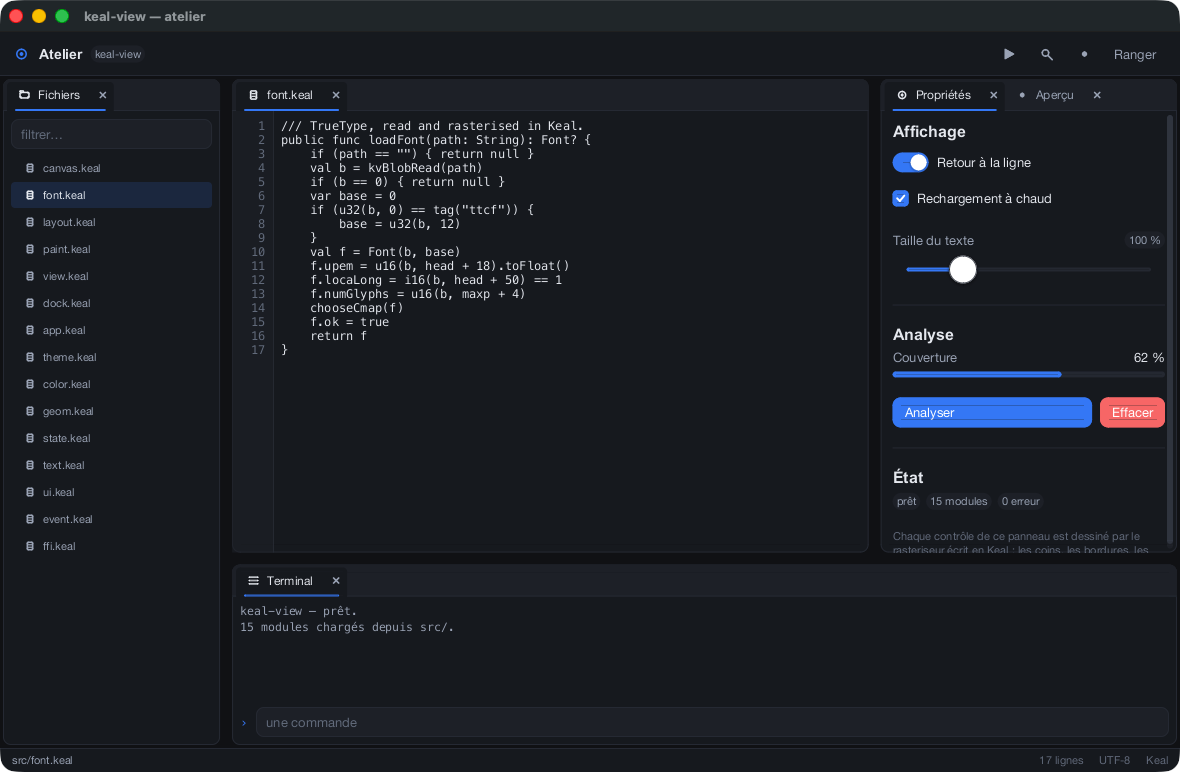
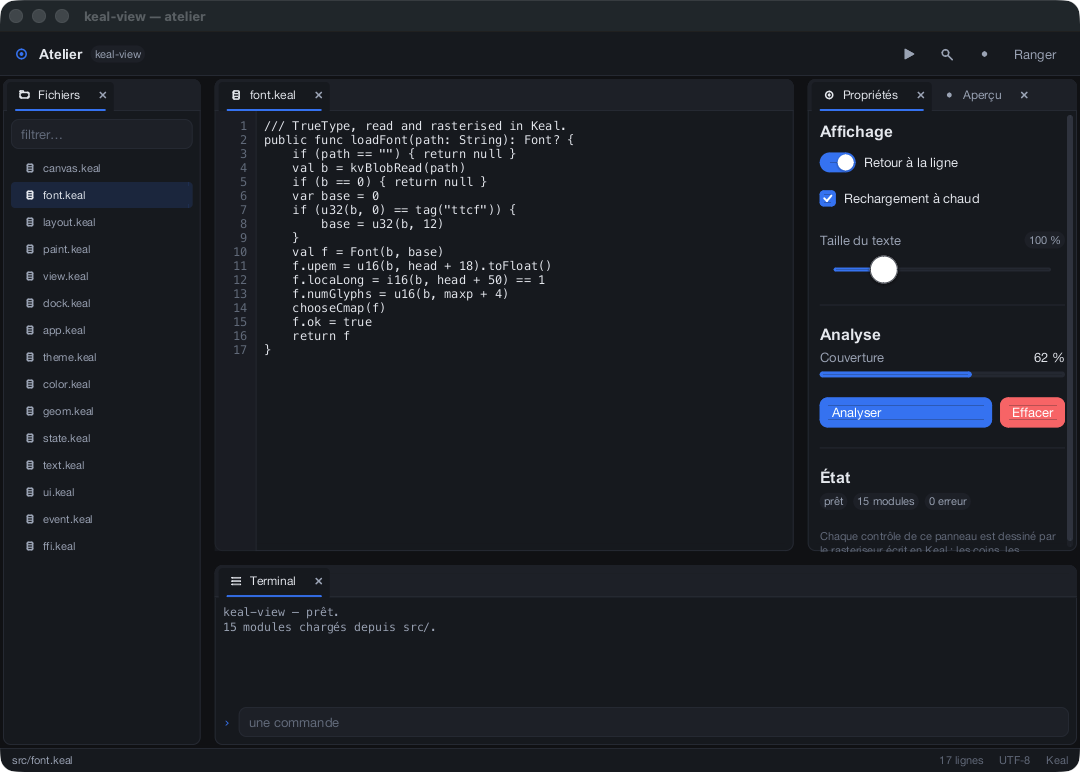
What Windows found: three defects above the backend, one in it
The first report from a machine that is not this one. It arrived in the right
order — the 131 headless assertions and the offscreen frame first, both good,
which said before anything else that the framework was sound on Windows and
any window defect was in `kv_win32.c`. Then the window turned out to be sound
too: image the right way up, colours right, resize clean, hover, wheel,
I-beam, double click, Tab and Shift-Tab, `Bonjour é€` typed correctly, and a
panel dragged between docks with its drop zone showing. Four things were
wrong, and three of them were mine on every platform.

**Ctrl/Cmd + A, C, X and V did nothing, anywhere.** `keyDown` tested
`e.text`, and `nextEvent` only filled `text` for a text event — a key press
always carried an empty string. Ctrl+C does not even produce one: Windows
sends `WM_CHAR` 0x03 and Cocoa suppresses the text event under Command, both
correctly. So a key press now carries the letter the key would type with
nothing held down, filled by all three backends. Verified end to end,
clipboard included.

**No selection was ever painted.** Extending needs somewhere to extend
*from*, and a field reached by Tab has never been clicked, so it had no
anchor — `anchorOf` answered the caret, which is where the caret was going,
so the selection was empty however far it ran. The anchor is now pinned where
the caret was on the first extend. Reproduced here as a failing test before
being fixed, and the test itself found the neighbouring hazard: two trees of
[…]

diff --git a/runtime/kv_win32.c b/runtime/kv_win32.c
@@ -35,6 +35,7 @@ static int    alive = 0;
 static double scale = 1.0;
 static int64_t pxw = 0, pxh = 0;
 static LARGE_INTEGER freq, start;
+static int      want_dark = 0;
 static HCURSOR cursors[5];
 static int     cursor_now = 0;
 
@@ -185,12 +186,20 @@ static LRESULT CALLBACK proc(HWND h, UINT msg, WPARAM wp, LPARAM lp) {
             push(e);
             return 0;
         }
-        case WM_KEYDOWN: case WM_SYSKEYDOWN:
+        case WM_KEYDOWN: case WM_SYSKEYDOWN: {
             e = blank(KV_EV_KEYDOWN);
             e.key = named_key(wp);
             e.mods = mods_now();
+            /* The letter the key would type with nothing held down, so that a
+             * shortcut can be told from another one. Ctrl+C sends WM_CHAR 0x03,
+             * which is dropped as a control character and rightly so, and the
+             * key press would otherwise carry nothing at all. */
+            UINT ch = MapVirtualKeyW((UINT)wp, 2 /* MAPVK_VK_TO_CHAR */) & 0x7FFF;
+            if (ch >= 'A' && ch <= 'Z') ch += 32;
+            if (ch >= 32 && ch < 127) { e.text[0] = (char)ch; e.text[1] = 0; }
             push(e);
             return 0;
+        }
         case WM_KEYUP: case WM_SYSKEYUP:
             e = blank(KV_EV_KEYUP);
             e.key = named_key(wp);
@@ -266,6 +275,10 @@ int64_t kvp_open(const char *title, int64_t w, int64_t h) {
                           want.right - want.left, want.bottom - want.top,
                           NULL, NULL, wc.hInstance, NULL);
     if (!win) return 0;
+    /* Before the window is shown: Windows 10 does not repaint a caption that
+     * is already on screen, so this is the only moment a dark one takes hold
+     * without a resize to shake it loose. */
+    kvp_set_dark(want_dark);
     ShowWindow(win, SW_SHOW);
     UpdateWindow(win);
     SetForegroundWindow(win);
@@ -342,20 +355,44 @@ void kvp_set_cursor(int64_t shape) {
     SetCursor(cursors[cursor_now]);
 }
 
+/* Remember what the application wants before there is a window to want it of.
+ * `kvp_open` applies this between creating the window and showing it. */
+void kvp_prefer_dark(int64_t dark) { want_dark = dark ? 1 : 0; }
+
 /* Windows has no system-wide dark title bar before build 17763, and telling
  * it about one after that is a documented-but-undocumented attribute. Both
- * cases are handled by asking and ignoring a refusal. */
+ * cases are handled by asking and ignoring a refusal.
+ *
+ * The attribute takes effect immediately on a window that has not been shown,
+ * and not at all on one that has: `RedrawWindow(RDW_FRAME)` and
+ * `SetWindowPos(SWP_FRAMECHANGED)` both leave the old caption in place, and a
+ * real change of size is the only thing that makes the desktop manager
+ * rebuild it. So a window already on screen is nudged one pixel and back —
+ * which is a hack, and is here because the alternative is a light caption over
+ * a dark application every time the theme is switched. */
 void kvp_set_dark(int64_t dark) {
     if (!win) return;
+    want_dark = dark ? 1 : 0;
     HMODULE dwm = LoadLibraryW(L"dwmapi.dll");
     if (!dwm) return;
     typedef HRESULT (WINAPI *SetAttr_t)(HWND, DWORD, LPCVOID, DWORD);
     SetAttr_t f = (SetAttr_t)(void *)GetProcAddress(dwm, "DwmSetWindowAttribute");
+    int applied = 0;
     if (f) {
         BOOL v = dark ? TRUE : FALSE;
-        if (f(win, 20, &v, sizeof v) != S_OK) f(win, 19, &v, sizeof v);
+        if (f(win, 20, &v, sizeof v) == S_OK) applied = 1;
+        else if (f(win, 19, &v, sizeof v) == S_OK) applied = 1;
     }
     FreeLibrary(dwm);
+    if (applied && IsWindowVisible(win)) {
+        RECT r;
+        if (GetWindowRect(win, &r)) {
+            int w = r.right - r.left, h = r.bottom - r.top;
+            UINT flags = SWP_NOMOVE | SWP_NOZORDER | SWP_NOACTIVATE | SWP_NOCOPYBITS;
+            SetWindowPos(win, NULL, 0, 0, w, h + 1, flags);
+            SetWindowPos(win, NULL, 0, 0, w, h, flags);
+        }
+    }
 }
 
 int64_t kvp_window_id(void) { return (int64_t)(intptr_t)win; }

diff --git a/runtime/kv_cocoa.m b/runtime/kv_cocoa.m
@@ -156,6 +156,16 @@ static int translate(NSEvent *e) {
             ev = blank(KV_EV_KEYDOWN);
             ev.mods = m;
             ev.key = named_key([e keyCode]);
+            /* The letter the key would type with nothing held down, so that a
+             * shortcut can be told from another one. A key press carries no
+             * text otherwise — the text arrives as its own event, and a
+             * shortcut suppresses that. */
+            NSString *base = [e charactersIgnoringModifiers];
+            if ([base length] > 0) {
+                unichar c0 = [base characterAtIndex:0];
+                if (c0 >= 'A' && c0 <= 'Z') c0 = (unichar)(c0 + 32);
+                if (c0 >= 32 && c0 < 127) { ev.text[0] = (char)c0; ev.text[1] = 0; }
+            }
             push(ev);
             if (m & KV_MOD_SUPER) return 0;      /* let the menu have it */
             NSString *s = [e characters];
@@ -311,6 +321,10 @@ void kvp_present(const uint32_t *fb, int64_t w, int64_t h) {
 /* The system's own number for this window. `screencapture -l <n>` captures
  * exactly it, which is how the pictures in the README are made and how a
  * window can be looked at from outside the process that owns it. */
+/* Cocoa repaints the title bar whenever it is told, so there is nothing to
+ * arrange in advance. */
+void kvp_prefer_dark(int64_t dark) { (void)dark; }
+
 /* The title bar belongs to the system, not to the framebuffer, so a dark
  * application has to say so or it gets a white strip above a black window. */
 void kvp_set_dark(int64_t dark) {

diff --git a/runtime/kv_x11.c b/runtime/kv_x11.c
@@ -197,6 +197,15 @@ static void translate(XEvent *ev) {
             e = blank(KV_EV_KEYDOWN);
             e.key = named_key(ks);
             e.mods = mods_of(ev->xkey.state);
+            /* The letter the key carries with nothing held down, so that a
+             * shortcut can be told from another one. */
+            KeySym base = XLookupKeysym(&ev->xkey, 0);
+            if (base >= 32 && base < 127) {
+                char c0 = (char)base;
+                if (c0 >= 'A' && c0 <= 'Z') c0 = (char)(c0 + 32);
+                e.text[0] = c0;
+                e.text[1] = 0;
+            }
             push(e);
             if (n > 0 && (unsigned char)buf[0] >= 32 && (unsigned char)buf[0] != 127) {
                 KvEv te = blank(KV_EV_TEXT);
@@ -379,6 +388,10 @@ void kvp_set_cursor(int64_t shape) {
     if (shape < 0 || shape > 4) shape = 0;
     XDefineCursor(dpy, win, cursors[shape]);
 }
+
+/* The window manager owns the decorations, and reads the hint whenever it
+ * likes, so there is nothing to arrange in advance. */
+void kvp_prefer_dark(int64_t dark) { (void)dark; }
 
 /* X11 has no title bar of its own — the window manager draws it. This sets
  * the hint GTK-based managers read, and does nothing anywhere else, which is

diff --git a/runtime/kv.h b/runtime/kv.h
@@ -110,6 +110,11 @@ void    kvp_clipboard_set(const char *s);
 char   *kvp_font_path(int64_t which);
 int64_t kvp_window_id(void);
 void    kvp_set_dark(int64_t dark);
+/* Said *before* `kvp_open`. Windows will not repaint a caption that is already
+ * on screen, so the only reliable moment to ask for a dark one is between
+ * creating the window and showing it. The other two platforms have nothing to
+ * do here and do nothing. */
+void    kvp_prefer_dark(int64_t dark);
 
 #ifdef __cplusplus
 }
